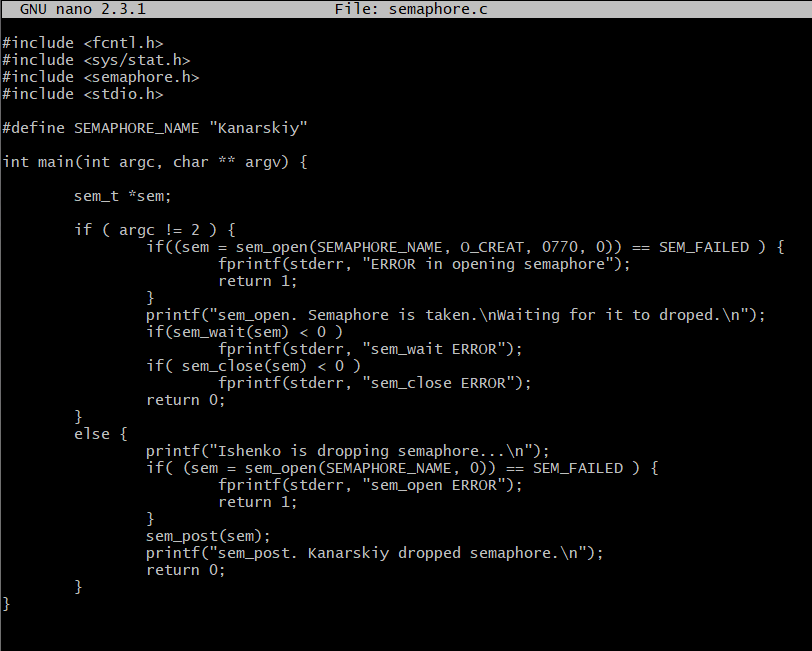
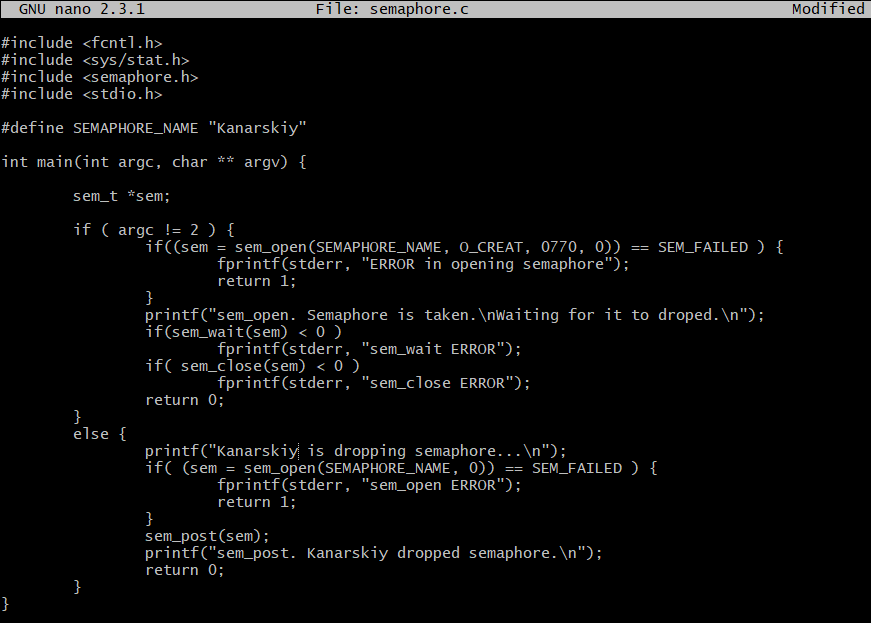
Add files via upload

diff --git a/semaphore.c b/semaphore.c
@@ -22,7 +22,7 @@ int main(int argc, char ** argv) {
                 return 0;
         }
         else {
-                printf("Ishenko is dropping semaphore...\n");
+                printf("Kanarskiy is dropping semaphore...\n");
                 if( (sem = sem_open(SEMAPHORE_NAME, 0)) == SEM_FAILED ) {
                         fprintf(stderr, "sem_open ERROR");
                         return 1;
